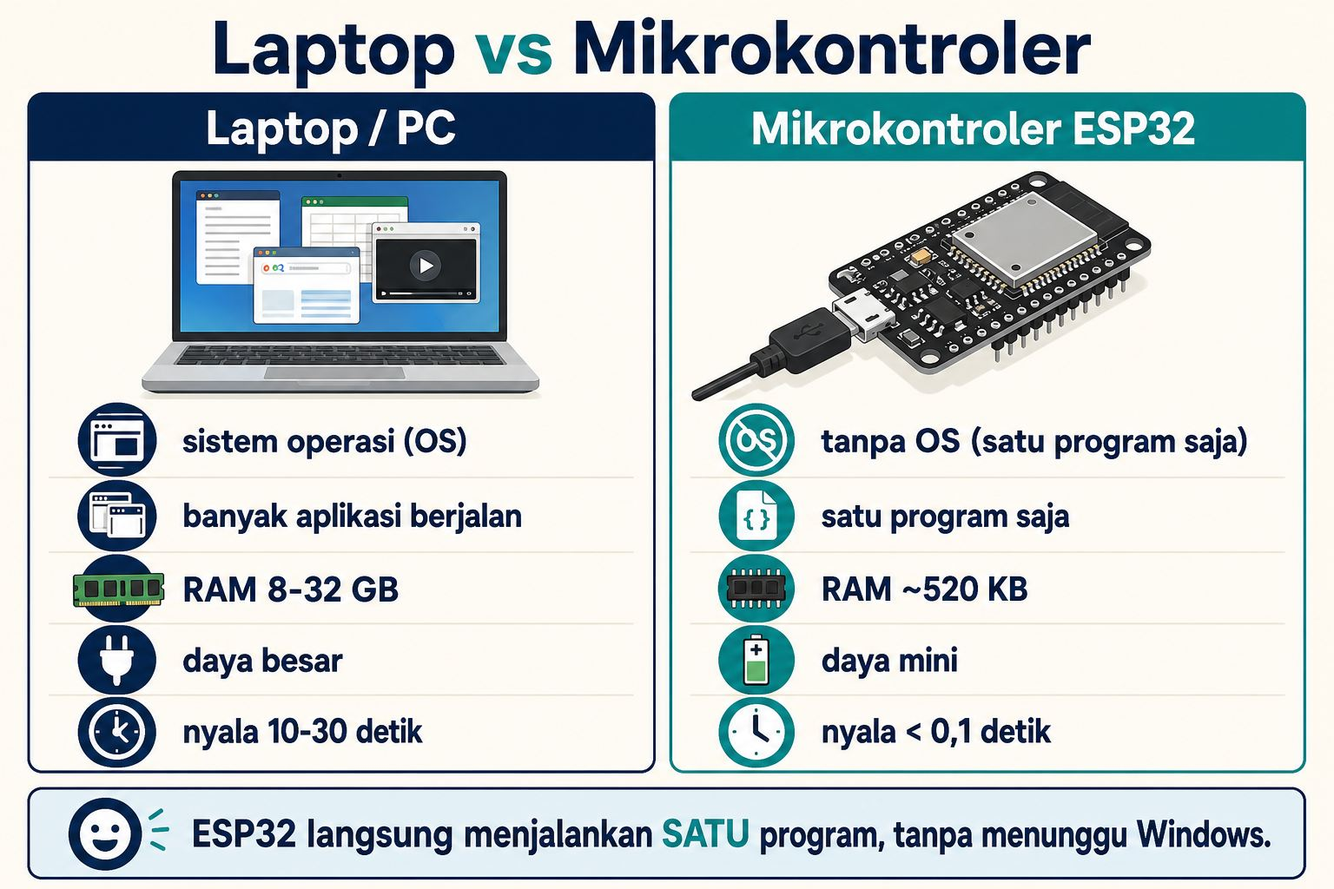
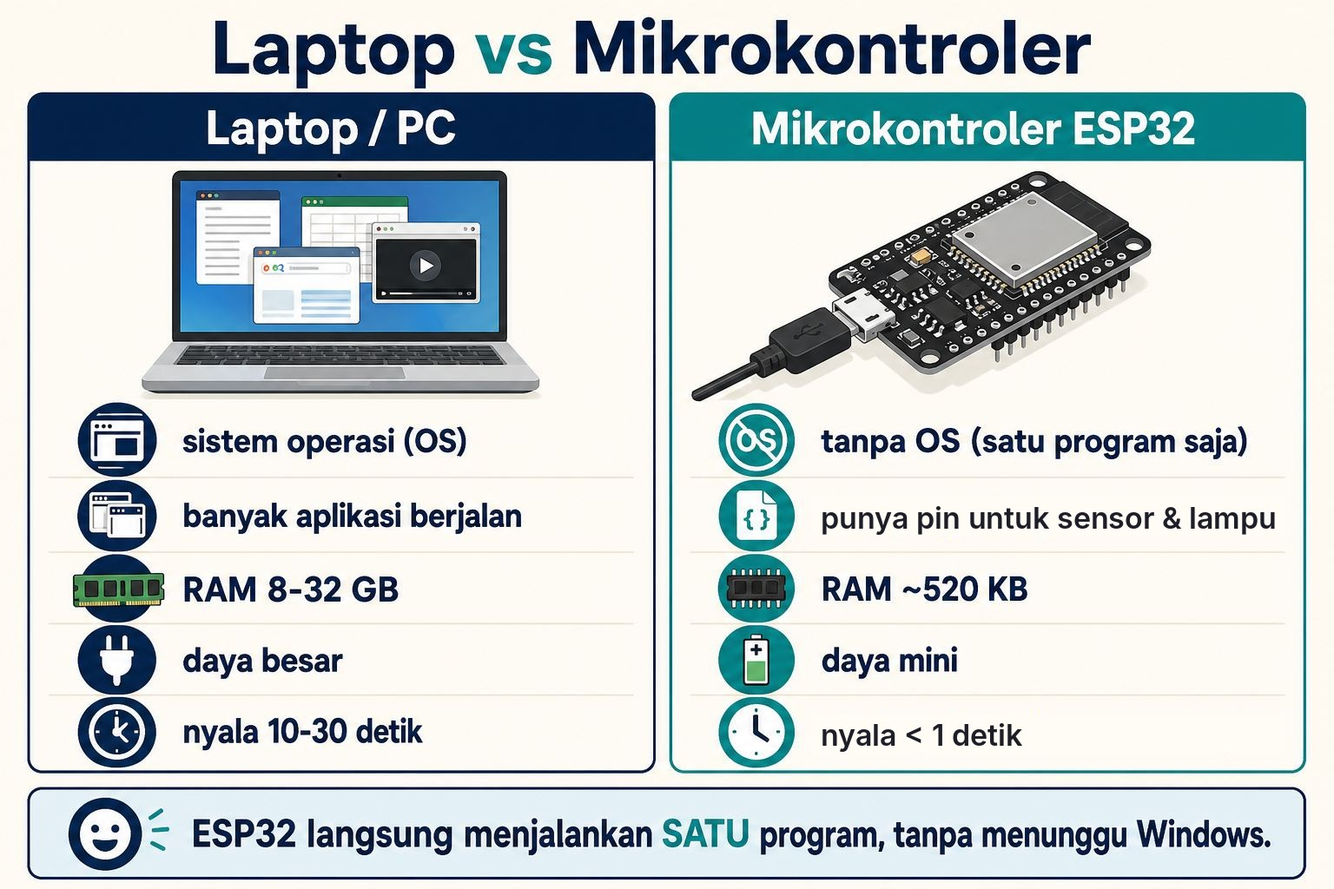
docs(modul-01): revisi v1.2 — audit putaran 2 (awam, teknis, EYD, gambar)
Teks: penjelasan Cara A klik-klik Wokwi diperinci (kotak warna LED,
panel Resistance, tooltip nama pin), contoh error diselaraskan dengan
kode Praktik 3, catatan papan 38 pin, GND.1/GND.2, FreeRTOS, dan
puluhan perbaikan EYD/konsistensi istilah.

Gambar: tangkapan layar baru wokwi-11-klik-komponen.png; wokwi-02 dan
wokwi-05 diambil ulang; diagram polaritas LED, rangkaian Wokwi, pola
kedip, peta jalan, kit benar-vs-salah dan arsitektur dirapikan
(label tidak tumpang-tindih, kaki anoda lebih panjang); ilustrasi
laptop-vs-mikrokontroler dikoreksi; polaritas-kaki-led.jpg lama dihapus.

Kode: kode/03-pola-nama/sketch.ino memakai konstanta jeda yang sama
dengan diagram pola kedip.

Silabus v1.0.2: "foto benar vs salah" → "panduan gambar"; catatan
panjang Modul 1 di §4.1; riwayat revisi.

Claude-Session: https://claude.ai/code/session_01AUkSk1ZM3CR3Lttuu2fo3i

Changed region(s): [[0.5938, 0.5625, 0.9688, 0.625], [0.5938, 0.8125, 0.7812, 0.8438]]

diff --git a/fase-0-fondasi/modul-01-peta-besar-iot/README.md b/fase-0-fondasi/modul-01-peta-besar-iot/README.md
@@ -1,6 +1,6 @@
 # Modul 1 — Peta Besar IoT & Kemenangan Pertama dalam 10 Menit
 
-*Fase 0 · Minggu 1 · Perangkat keras (hardware): **tidak perlu** (semua di browser) · Prasyarat: **tidak ada** · Waktu: 6–8 jam, dicicil dalam seminggu*
+*Fase 0 · Minggu 1 · Perangkat keras (*hardware*): **tidak perlu** (semua di browser) · Prasyarat: **tidak ada** · Waktu: 6–8 jam, dicicil dalam seminggu*
 
 [⬅ Kembali ke Silabus](../../SILABUS.md) · [Pelacak progres](../../PROGRES.md) · [Modul 2 ➡ (segera terbit — baca ringkasannya di Silabus)](../../SILABUS.md#modul-2--listrik-ramah-awam-breadboard--unggah-pertama-ke-esp32-asli)
 
@@ -46,10 +46,10 @@ Dalam 10 menit pertama kamu akan membuat lampu berkedip dari kode yang kamu temp
 | Kebutuhan | Keterangan |
 | :--- | :--- |
 | **Laptop/PC** dengan browser (peramban) modern | Chrome, Edge, atau Firefox versi terbaru. Windows, macOS, atau Linux sama saja. **HP saja tidak cukup** untuk Wokwi (layarnya terlalu sempit dan simulator butuh tenaga komputer), tapi boleh dipakai untuk membaca materi dan memotret. |
-| **Tidak punya laptop?** | Pakai lab komputer kampus, warnet, atau perpustakaan — Wokwi dan GitHub **tidak perlu menginstal apa pun**, jadi 1–2 jam di komputer pinjaman cukup untuk Kemenangan Cepat dan Praktik 1–3. Bagian lain (konsep, belanja, latihan bertanya) bisa dibaca di HP. Jalan darurat: Chrome di HP dengan menu ⋮ → *Desktop site* (*Situs desktop*) untuk Kemenangan Cepat saja; sempit, tapi bisa. |
+| **Tidak punya laptop?** | Pakai lab komputer kampus, warnet, atau perpustakaan — Wokwi dan GitHub **tidak perlu menginstal apa pun**, jadi 1–2 jam di komputer pinjaman cukup untuk Kemenangan Cepat dan Praktik 1–4 (unggah ke GitHub sekalian dari komputer itu, atau kirim tangkapan layarnya ke HP-mu dulu). Bagian lain (konsep, belanja, latihan bertanya) bisa dibaca di HP. Jalan darurat: Chrome di HP dengan menu ⋮ → *Desktop site* (*Situs desktop*) untuk Kemenangan Cepat saja; sempit, tapi bisa. |
 | **Koneksi internet** | Wokwi dan GitHub keduanya berjalan di browser. Kuota HP yang di-*tethering* cukup. |
 | **Alamat email** (surel) | Untuk membuat akun GitHub (gratis) dan, kalau mau menyimpan proyek, akun Wokwi (gratis). |
-| **Uang untuk Kit A Tahap 1** | Rp300–620 ribu, **dipesan di akhir modul ini** supaya sampai sebelum Modul 2. Belum perlu dibeli sekarang — baca dulu panduan belanjanya di Praktik 5. |
+| **Uang untuk Kit A Tahap 1** | Kit A = paket komponen ESP32 dasar menurut Silabus; Tahap 1 = bagian yang dibutuhkan Modul 2–6. Rp300–620 ribu, **dipesan di akhir modul ini** supaya sampai sebelum Modul 2. Belum perlu dibeli sekarang — baca dulu panduan belanjanya di Praktik 5. |
 | **Yang TIDAK perlu** | Menginstal program apa pun. Arduino IDE baru dipasang di Modul 2, Git di Modul 3, Node.js di Modul 4. Satu alat per modul, tepat saat dibutuhkan. |
 
 **Versi yang dipakai di modul ini** (penting — nanti kamu paham kenapa):
@@ -85,7 +85,7 @@ Kamu akan melihat layar seperti ini. Kenali dulu bagian-bagiannya — lima menit
 
 ![Tampilan editor Wokwi dengan enam bagian yang diberi nomor: tab sketch.ino, tab diagram.json, tombol play, panel simulasi, tombol save, tombol tambah komponen](aset/wokwi-02-editor-dijelaskan.png)
 
-Di layarmu tombol **SAVE** masih abu-abu dan ada tombol **SIGN UP** di pojok kanan — normal, kita belum mendaftar. Di panel kanan ada gambar papan (*board*) ESP32 — itu papan **bawaan** Wokwi (versi 38 pin). Kita akan menggantinya dengan papan **30 pin** yang sama persis dengan yang akan kamu beli, plus satu LED dan satu resistor. Caranya: menempel satu "daftar komponen".
+Di layarmu tombol **SAVE** masih abu-abu dan ada tombol **SIGN UP** di pojok kanan — normal, kita belum mendaftar. Di panel kanan ada gambar papan (*board*) ESP32 — itu papan **bawaan** Wokwi, versi 38 pin (pin = kaki logam di tepi papan). Kita akan menggantinya dengan papan **30 pin** yang sama persis dengan yang akan kamu beli, plus satu LED (lampu kecil) dan satu resistor (komponen kecil pembatas arus). Caranya: menempel satu "daftar komponen".
 
 ### Langkah 2 — Tempel daftar komponen (diagram.json)
 
@@ -127,7 +127,7 @@ Begitu ditempel, panel kanan **langsung berubah**: papan 30 pin, resistor, LED m
 > 🖥 **Di mana?** Masih di Wokwi, panel kiri, klik tab **`sketch.ino`** (nomor 1).
 
 1. Klik tab **`sketch.ino`**.
-2. Tekan **Ctrl + A**, lalu **Delete** untuk mengosongkan contoh bawaan "Hello, ESP32!".
+2. Klik di dalam kode, tekan **Ctrl + A**, lalu **Delete** untuk mengosongkan contoh bawaan "Hello, ESP32!".
 3. Salin kode di bawah ini, lalu tempel dengan **Ctrl + V**.
 
 ```cpp
@@ -168,22 +168,22 @@ Lalu… **LED merahnya berkedip.** Nyala setengah detik, padam setengah detik, t
 
 ![Simulasi berjalan: penghitung waktu berjalan, LED merah menyala terang, kotak serial monitor di bawah](aset/wokwi-07-simulasi-berjalan.jpg)
 
-Kalau kamu klik tombol **⏸ jeda** (di sebelah tombol stop), Wokwi membekukan simulasi dan memperlihatkan keadaan setiap pin. Perhatikan pin **D4**: labelnya berganti antara `OUT High` dan `OUT Low` — persis seperti yang kodemu perintahkan.
+Kalau kamu klik tombol **⏸ jeda** (di sebelah tombol stop), Wokwi membekukan simulasi dan memperlihatkan keadaan setiap pin. Perhatikan pin **D4**: kalau kamu menjeda saat LED menyala, labelnya `OUT High`; jeda saat padam, labelnya `OUT Low` — persis seperti yang kodemu perintahkan (bandingkan dua gambar di bawah). Untuk melanjutkan, klik tombol **kuning ▶**.
 
 ![Dua tangkapan layar berdampingan saat simulasi dijeda: kiri LED menyala dengan label pin D4 "OUT High", kanan LED padam dengan label "OUT Low"](aset/wokwi-08-led-nyala-vs-padam.png)
 
 ### Langkah 5 — Abadikan kemenanganmu
 
-Ambil tangkapan layar (*screenshot*) saat LED menyala — ini akan kamu unggah ke GitHub nanti. Trik: klik **⏸ jeda** tepat saat LED menyala (kalau tertangkap padam, klik ▶ lalu ⏸ lagi), baru ambil tangkapan layar.
+Ambil tangkapan layar (*screenshot*) saat LED menyala — ini akan kamu unggah ke GitHub nanti. Trik: klik **⏸ jeda** tepat saat LED menyala (kalau tertangkap padam, klik tombol **kuning ▶** untuk melanjutkan, tunggu LED menyala, lalu ⏸ lagi), baru ambil tangkapan layar.
 
 | Sistem | Cara |
 | :--- | :--- |
 | **Windows 11** | Tekan **Win + Shift + S**, seret kotak di area Wokwi. Hasilnya otomatis tersimpan di folder *Pictures → Screenshots*. |
-| **Windows 10** | Tekan **Win + Shift + S**, seret kotak. Hasilnya **belum** tersimpan: klik notifikasi yang muncul di pojok kanan bawah, lalu klik ikon simpan (disket) di Snipping Tool. |
+| **Windows 10** | Tekan **Win + Shift + S**, seret kotak. Hasilnya **belum** tersimpan: klik notifikasi yang muncul di pojok kanan bawah, lalu klik ikon simpan (disket) di aplikasi Snip & Sketch yang terbuka. |
 | **macOS** | Tekan **Cmd + Shift + 4**, seret kotak. File tersimpan di *Desktop* dengan nama otomatis "Screenshot …". Untuk mengganti nama: klik sekali nama filenya, tekan **Enter**, ketik nama baru. |
 | **Linux (GNOME/Ubuntu)** | Tekan tombol **PrtSc**, pilih mode *area*, seret kotak, lalu klik tombol bulat. File tersimpan di folder *Pictures/Screenshots*. |
 
-Beri nama filenya **`modul-01-blink.png`** dan pindahkan ke folder `belajar-iot` yang kamu buat tadi. (Windows biasanya **menyembunyikan** akhiran `.png` — kalau namanya tampil tanpa `.png`, tidak apa-apa.)
+Beri nama filenya **`modul-01-blink.png`** (Windows/Linux: klik kanan file → **Rename**/*Ubah nama*, atau pilih file lalu tekan **F2**) dan pindahkan ke folder `belajar-iot` yang kamu buat tadi. (Windows biasanya **menyembunyikan** akhiran `.png` — kalau namanya tampil tanpa `.png`, tidak apa-apa.)
 
 > [!IMPORTANT]
 > **🎉 Selamat — kamu baru saja memprogram sebuah mikrokontroler.** Serius. Kode yang kamu tempel itu bukan "pura-pura": kode yang sama persis, tanpa diubah satu huruf pun, akan kamu unggah ke ESP32 sungguhan di Modul 2, dan LED di mejamu akan berkedip dengan irama yang sama. Yang berbeda hanya *tempat* chip-nya berjalan — hari ini di dalam browser, minggu depan di papan seharga Rp50 ribu.
@@ -204,7 +204,7 @@ Coba perhatikan tiga contoh yang hampir pasti pernah kamu temui:
 
 ![Tiga contoh IoT di Indonesia: meteran listrik pintar, pelacak ojek online, dan peringatan dini banjir, masing-masing mengikuti pola sensor → otak kecil → jaringan → server → HP](aset/iot-di-sekitar-kita.png)
 
-(*LoRa* di gambar = radio jarak jauh hemat daya, dibahas di Modul 15; *BPBD* = badan penanggulangan bencana daerah.)
+(*LoRa* di gambar = radio jarak jauh hemat daya, dibahas di Modul 15; BPBD = Badan Penanggulangan Bencana Daerah.)
 
 Lihat polanya? **Selalu sama**, apa pun bendanya:
 
@@ -224,11 +224,11 @@ Inilah sistem yang akan kamu bangun selama 32 minggu, dari sensor sampai ke laya
 
 ![Arsitektur lengkap proyek "Rumah Pintar Mini": perangkat ESP32 (Node 2 tampak sebagai label kecil "via ESP-NOW"), gateway Raspberry Pi, server backend dengan database, dashboard di HP, dan lapisan operasi yang melingkupi semuanya](../../aset/arsitektur-fullstack-iot.png)
 
-Jangan pusing melihat banyaknya kotak dan singkatan — gambar ini sengaja diperlihatkan sekarang supaya kamu **tahu tujuan akhirnya**, bukan untuk dihafal. Setiap kotak akan dapat gilirannya. Sistemnya terdiri dari **lima lapisan**, masing-masing punya analogi sehari-hari (ini pemetaan yang sama dengan [Silabus §2](../../SILABUS.md#2-gambaran-besar-apa-yang-akan-kita-bangun)):
+Jangan pusing melihat banyaknya kotak dan singkatan — gambar ini sengaja diperlihatkan sekarang supaya kamu **tahu tujuan akhirnya**, bukan untuk dihafal. Setiap kotak akan dapat gilirannya. Sistemnya terdiri atas **lima lapisan**, masing-masing punya analogi sehari-hari (ini pemetaan yang sama dengan [Silabus §2](../../SILABUS.md#2-gambaran-besar-apa-yang-akan-kita-bangun)):
 
 | Lapisan | Analogi | Dibangun di | Hubungannya dengan "pola IoT" di Konsep 1 |
 | :--- | :--- | :---: | :--- |
-| **1. Perangkat (ESP32)** | Indra & tangan | Fase 1–2 | Langkah 1 & 2: sensor + otak kecil. Hari ini kamu sudah menyentuhnya. |
+| **1. Perangkat (ESP32)** | Indra & tangan | Fase 0–1 (+ Node 2 di Modul 14) | Langkah 1 & 2: sensor + otak kecil. Hari ini kamu sudah menyentuhnya. |
 | **2. Gateway (Raspberry Pi)** | Kantor pos lokal di rumah | Fase 2 | Bagian dari langkah 3: mengumpulkan laporan semua perangkat di rumah, menahannya kalau internet putus. |
 | **3. Backend & Data** | Kantor pusat & gudang arsip | Fase 3 | Langkah 4: server yang menyimpan riwayat dan menjalankan aturan. |
 | **4. Dashboard** | Layar di mejamu | Fase 4 | Langkah 5: tempat manusia melihat angka dan menekan tombol. |
@@ -243,14 +243,14 @@ Dua hal lagi yang perlu kamu ingat dari gambar itu:
 
 ESP32 adalah **mikrokontroler**: komputer mungil seharga puluhan ribu rupiah yang **tidak punya sistem operasi** seperti Windows — tidak ada aplikasi lain, tidak ada tombol "tutup". Begitu dinyalakan, ia langsung menjalankan **satu-satunya program** yang tersimpan di dalamnya, dan terus menjalankannya sampai listrik dicabut. (Penyederhanaan kecil yang jujur: di dalamnya ada "OS mini" bernama FreeRTOS, tapi kamu baru bertemu dengannya di Modul 8.)
 
-![Perbandingan laptop (sistem operasi, banyak aplikasi, RAM 8–32 GB, nyala 10–30 detik) dengan mikrokontroler ESP32 (tanpa OS, satu program, RAM ~520 KB, nyala dalam sepersekian detik)](aset/laptop-vs-mikrokontroler.jpg)
+![Perbandingan laptop (sistem operasi, banyak aplikasi, RAM 8–32 GB, nyala 10–30 detik) dengan mikrokontroler ESP32 (tanpa OS, punya pin untuk sensor dan lampu, RAM ~520 KB, nyala kurang dari 1 detik)](aset/laptop-vs-mikrokontroler.jpg)
 
-*(Gambar papan di ilustrasi ini hanya simbol; wujud papan yang benar-benar kita beli ada di Praktik 5.)*
+*(Gambar papan di ilustrasi ini hanya simbol; wujud papan yang benar-benar kita beli ada di Praktik 5. "Nyala < 1 detik" di gambar maksudnya: dari dicolok sampai program berjalan, tanpa menunggu apa pun.)*
 
 Kelemahan? Jelas: tidak bisa membuka browser, memorinya cuma sepersepuluh ribu memori laptopmu. Justru itulah kekuatannya untuk IoT:
 
 - **Menyala dalam sepersekian detik** dan tidak pernah tersendat (*lag*) karena tidak ada program lain yang berebut.
-- **Hemat daya luar biasa** — Node 2 "Kebun" nanti hidup berminggu-minggu dari satu baterai.
+- **Hemat daya luar biasa** — Node 2 "Kebun" nanti bertahan berhari-hari sampai beberapa minggu dari satu baterai 18650 (Modul 9 menjelaskan hitungannya dengan jujur).
 - **Murah dan kecil**, bisa ditanam di dalam pot, pompa, atau kotak sakelar.
 - Punya **kaki-kaki (pin)** yang bisa langsung disambung ke sensor dan lampu — laptop tidak punya.
 
@@ -362,7 +362,7 @@ Karena itu pula, setiap modul di kurikulum ini membuka kotak 🚨 dengan tabel *
 
 ### 10. Keselamatan dasar (singkat, karena minggu ini belum ada perangkat keras)
 
-Satu kalimat untuk dibawa ke Modul 2: **semua yang kita pakai di kurikulum ini bertegangan rendah dari USB — aman disentuh tangan, tidak bisa menyetrum.** USB memberi 5 V ke papan; papan menurunkannya menjadi 3,3 V untuk chip dan pin-pinnya (itulah angka `HIGH = 3,3 V` di Konsep 5). Keduanya aman. Listrik PLN 220 V **tidak pernah** kita sentuh; kalau nanti ingin mengendalikan lampu rumah, kita pakai modul relay yang terisolasi dan tetap tidak menyentuh kabel 220 V secara langsung.
+Satu kalimat untuk dibawa ke Modul 2: **semua yang kita pakai di kurikulum ini bertegangan rendah dari USB — aman disentuh tangan, tidak bisa menyetrum.** USB memberi 5 V ke papan; papan menurunkannya menjadi 3,3 V untuk chip dan pin-pinnya (itulah angka `HIGH = 3,3 V` di Konsep 5). Keduanya aman. Listrik PLN 220 V **tidak pernah** kita sentuh: kurikulum ini tidak menyambungkan apa pun ke 220 V; cara kerja relay untuk 220 V hanya dibahas sebagai wawasan dan peringatan.
 
 Aturan emas yang akan diulang di tiap modul perangkat keras: **cabut kabel USB sebelum mengubah kabel rangkaian.** Sekarang kamu hanya perlu mengingatnya.
 
@@ -391,7 +391,7 @@ Angka di dalam `delay(…)` adalah lama tunggu dalam **milidetik** (1 detik = 1.
 | 50 | 1000 | Kilat singkat tiap detik | Indikator baterai (hemat daya!) |
 | 2 | 2 | Terlihat seperti **menyala terus, tetapi setengah terang** | Dasar dari peredupan (*dimming*, Modul 5) |
 
-Baris terakhir itu kejutan kecil: mata manusia tidak bisa mengikuti ratusan kedip per detik, jadi LED terlihat menyala redup. (Di Wokwi hasilnya bisa tampak redup *atau* berkelip cepat, tergantung kecepatan simulasi; di LED asli nanti benar-benar redup.) Trik nyala-padam sangat cepat untuk mengatur terang ini namanya **PWM**, dan kamu akan memakainya untuk meredupkan LED dan membunyikan nada buzzer di Modul 5.
+Baris terakhir itu kejutan kecil: mata manusia tidak bisa mengikuti ratusan kedip per detik, jadi LED terlihat menyala redup. (Di Wokwi hasilnya bisa tampak redup *atau* berkelip cepat, tergantung kecepatan simulasi; di LED asli nanti benar-benar redup.) Trik nyala-padam sangat cepat untuk mengatur terang ini namanya **PWM** (*pulse width modulation*, modulasi lebar pulsa), dan kamu akan memakainya untuk meredupkan LED dan membunyikan nada buzzer di Modul 5.
 
 Begini bentuk dua pola dari tabel kalau digambar di garis waktu — plus bocoran pola "nama" yang akan kamu buat di Praktik 3:
 
@@ -409,12 +409,14 @@ Ada dua cara menambah komponen di Wokwi. **Pilih salah satu.** Kalau ingin menco
 **Cara A — lewat tombol ➕ (klik-klik, cocok untuk eksplorasi).**
 
 1. Klik tombol **➕** biru di panel kanan (nomor 6 di gambar editor). Muncul daftar komponen.
-2. Pilih **LED** (kelompok *Basic*). LED baru muncul di panel; seret ke tempat kosong. Warnanya merah — tidak memengaruhi kode, tapi kalau mau sama dengan gambar dan tantangan, klik LED baru itu lalu ubah **Color** menjadi *green* di panel kecil yang terbuka.
+2. Pilih **LED** (kelompok *Basic*). LED baru muncul di panel; seret ke tempat kosong. Warnanya merah — tidak memengaruhi kode, tapi kalau mau sama dengan gambar dan tantangan, klik LED baru itu lalu klik **kotak warna hijau** di baris yang muncul di atasnya (lihat gambar di bawah).
 
 ![Dialog "tambah komponen" Wokwi dengan kotak pencarian dan daftar kelompok Basic (LED, Pushbutton, Resistor) dan Display](aset/wokwi-05-tambah-komponen.jpg)
 
-3. Klik ➕ lagi, pilih **Resistor**. Klik resistor yang baru muncul — di sampingnya terbuka panel kecil dengan kolom **Resistance**; ganti isinya menjadi `220`. (Mengeklik komponen juga memunculkan tombol *Rotate* untuk memutar dan *Delete* untuk menghapus.)
-4. **Menyambung kabel:** arahkan kursor ke ujung sebuah pin *tanpa* mengeklik — Wokwi memunculkan **nama pinnya** (`D18`, `GND`, `A`, `C`, `1`, `2`). Klik pin pertama, lalu klik pin tujuan. Sambungkan: pin **D18** ESP32 → kaki **1** resistor; kaki **2** resistor → kaki **A** LED; kaki **C** LED baru → kaki **C** LED pertama (keduanya "pulang" ke GND lewat kabel hitam yang sudah ada — seperti dua rumah berbagi satu saluran pembuangan).
+3. Klik ➕ lagi, pilih **Resistor**. Klik resistor yang baru muncul — di atasnya terbuka panel kecil dengan kolom **Resistance**; ganti isinya menjadi `220`. (Mengeklik komponen juga memunculkan ikon putar, hapus, dan `?` untuk dokumentasi.)
+4. **Menyambung kabel:** arahkan kursor ke ujung sebuah pin *tanpa* mengeklik — Wokwi memunculkan **nama pinnya** dalam kotak kecil (`esp:D18`, `esp:GND.1`, `led2:A`, `led2:C`, `r2:1`, `r2:2`). Klik pin pertama, lalu klik pin tujuan. Sambungkan: pin **D18** ESP32 → kaki **1** resistor; kaki **2** resistor → kaki **A** LED; kaki **C** LED baru → kaki **C** LED pertama (keduanya "pulang" ke GND lewat kabel hitam yang sudah ada — seperti dua rumah berbagi satu saluran pembuangan).
+
+![Dua tangkapan layar Wokwi: kiri, LED yang diklik menampilkan baris kotak warna dan ikon putar/hapus; kanan, resistor yang diklik menampilkan kolom Resistance 220, dan kursor di ujung pin memunculkan tooltip esp:D18](aset/wokwi-11-klik-komponen.png)
 
 **Cara B — lewat `diagram.json` (tempel teks, hasilnya pasti rapi).** Buka tab `diagram.json`, kosongkan (**Ctrl + A**, **Delete**), lalu tempel ini:
 
@@ -508,16 +510,18 @@ Supaya tidak menulis `digitalWrite … delay …` puluhan kali, kita buat satu *
 
 const int PIN_LED = 4;
 
-const int PENDEK = 200;   // lama kedip pendek, dalam milidetik
-const int PANJANG = 600;  // lama kedip panjang
-const int JEDA = 1000;    // jeda sebelum pola diulang
+const int PENDEK = 200;        // lama kedip pendek (titik), dalam milidetik
+const int PANJANG = 600;       // lama kedip panjang (garis)
+const int JEDA_KEDIP = 200;    // jeda singkat antara dua kedip
+const int JEDA_HURUF = 400;    // jeda antara dua huruf
+const int JEDA_ULANG = 1000;   // jeda panjang sebelum pola diulang
 
 // Fungsi kecil = "resep" yang bisa dipanggil berkali-kali
 void kedip(int lamaNyala) {
   digitalWrite(PIN_LED, HIGH);
   delay(lamaNyala);           // nyala selama lamaNyala milidetik
   digitalWrite(PIN_LED, LOW);
-  delay(200);                 // jeda singkat antara dua kedip
+  delay(JEDA_KEDIP);          // padam sebentar sebelum kedip berikutnya
 }
 
 void setup() {
@@ -526,38 +530,47 @@ void setup() {
 
 void loop() {
   // Contoh pola untuk nama "ANI" (A = · —, N = — ·, I = · ·)
+  // Satu huruf = satu baris kedip(...) + satu baris delay(JEDA_HURUF)
   // Ganti dengan huruf-huruf namamu (tabel Morse ada di materi modul)
   kedip(PENDEK); kedip(PANJANG);   // A
-  delay(400);                      // jeda antarhuruf
+  delay(JEDA_HURUF);
   kedip(PANJANG); kedip(PENDEK);   // N
-  delay(400);
+  delay(JEDA_HURUF);
   kedip(PENDEK); kedip(PENDEK);    // I
-  delay(JEDA);                     // jeda panjang, lalu ulang dari awal
+  delay(JEDA_ULANG);               // jeda panjang, lalu ulang dari awal
 }
 ```
 
-Tugasmu: ganti tiga baris huruf di `loop()` dengan huruf-huruf **namamu** (3–5 huruf cukup; nama panggilan boleh). Jalankan, lalu **ambil tangkapan layar** dengan nama `modul-01-pola-nama.png`.
+Tugasmu: ganti huruf-huruf di `loop()` dengan huruf-huruf **namamu** (3–5 huruf cukup; nama panggilan boleh). Aturannya: **satu huruf = satu baris** berisi 1–4 panggilan `kedip(…)` (sesuai jumlah titik/garis di tabel), lalu satu baris `delay(JEDA_HURUF);`. Contoh huruf B (— · · ·):
 
-**Simpan juga kodenya sebagai file** (langkah ini sering membuat pemula tersandung, jadi ikuti pelan-pelan):
+```cpp
+  kedip(PANJANG); kedip(PENDEK); kedip(PENDEK); kedip(PENDEK);   // B
+  delay(JEDA_HURUF);
+```
 
-1. Klik di dalam editor Wokwi, tekan **Ctrl + A** lalu **Ctrl + C**.
-2. Buka aplikasi catatan polos: **Notepad** (Windows), **TextEdit** (macOS — pilih menu *Format → Make Plain Text* dulu), atau **Text Editor/gedit** (Linux). Tempel dengan **Ctrl + V**.
-3. Simpan: *File → Save As*.
-   - **Windows:** ubah *Save as type* menjadi **All files (\*.\*)**. Kalau dibiarkan "Text Documents", Notepad diam-diam menambahkan `.txt` sehingga namanya jadi `modul-01-pola-nama.ino.txt`.
-   - Ketik nama `modul-01-pola-nama.ino`, pilih folder `belajar-iot`, klik **Save**.
-4. Cek hasilnya di folder. Windows menyembunyikan akhiran file; untuk melihatnya, buka File Explorer → menu **View** → **Show** → centang **File name extensions**.
+Nama 4–5 huruf? Salin sepasang baris itu dan tempel sebelum `delay(JEDA_ULANG);`. Ingin iramanya beda? Ubah angka `PENDEK`, `PANJANG`, atau `JEDA_…` di bagian atas — satu angka, berlaku untuk semua huruf. Jalankan, lalu **ambil tangkapan layar** dengan nama `modul-01-pola-nama.png`.
+
+**Simpan juga kodenya.** Ada dua jalur; pilih yang kamu suka:
+
+- **Jalur A (paling mudah, tanpa file di laptop):** salin kode dari Wokwi (klik di dalam editor, **Ctrl + A**, **Ctrl + C**), lalu nanti di Praktik 4 tempel langsung ke GitHub lewat **Add file → Create new file** dengan nama `modul-01-pola-nama.ino`. Caranya persis seperti langkah di bagian ➕ di bawah.
+- **Jalur B (menyimpan file di laptop)** — langkah ini sering membuat pemula tersandung, jadi ikuti pelan-pelan:
+  1. Klik di dalam editor Wokwi, tekan **Ctrl + A**, lalu **Ctrl + C**.
+  2. Buka aplikasi catatan polos: **Notepad** (Windows), **TextEdit** (macOS — pilih menu *Format → Make Plain Text* dulu), atau **Text Editor/gedit** (Linux). Tempel dengan **Ctrl + V**.
+  3. *File → Save As*, lalu ketik nama `modul-01-pola-nama.ino` dan pilih folder `belajar-iot`.
+  4. Sebelum klik **Save**, cek jebakan akhiran file: **Windows** — ubah *Save as type* menjadi **All files (\*.\*)**; kalau dibiarkan "Text Documents", Notepad diam-diam menambahkan `.txt` sehingga namanya jadi `modul-01-pola-nama.ino.txt`. **macOS** — kalau TextEdit bertanya *Use .txt / Use .ino*, pilih **Use .ino**.
+  5. Cek hasilnya di folder. Windows menyembunyikan akhiran file; untuk melihatnya: Windows 11 → File Explorer → menu **View** → **Show** → centang **File name extensions**; Windows 10 → tab **View** → centang **File name extensions**.
 
 > [!TIP]
 > Kalau namamu panjang dan polanya jadi membosankan, buat versi "tanda tangan" saja: dua huruf inisial. Yang dinilai bukan panjangnya, melainkan **apakah kamu mengerti angka mana mengatur apa**.
 
 ### Praktik 4 — Simpan ke GitHub (lewat browser, tanpa menginstal apa pun)
 
-> 🖥 **Alat:** browser → [github.com](https://github.com). Siapkan file di folder `belajar-iot`: `modul-01-blink.png`, `modul-01-pola-nama.png`, `modul-01-pola-nama.ino`. (Belum baca Konsep 8 tentang GitHub? Baca dulu, 3 menit.)
+> 🖥 **Alat:** browser → [github.com](https://github.com). Siapkan file di folder `belajar-iot`: `modul-01-blink.png`, `modul-01-pola-nama.png`, dan (kalau memakai Jalur B di Praktik 3) `modul-01-pola-nama.ino`. (Belum baca Konsep 8 tentang GitHub? Baca dulu, 3 menit.)
 
 #### 4a. Buat akun GitHub (lewati kalau sudah punya)
 
 1. Buka `https://github.com/signup`.
-2. Isi **email**, **kata sandi**, dan **username** (nama pengguna). Username ini akan **terlihat oleh semua orang** dan menjadi bagian alamat repositorimu. Bisa diganti nanti, tapi semua tautan lamamu akan putus — jadi pilih yang rapi sejak awal, misalnya nama asli (`budisantoso`) atau nama + kata (`budi-iot`).
+2. Isi **email**, **kata sandi**, dan **username** (nama pengguna). Username ini akan **terlihat oleh semua orang** dan menjadi bagian alamat repositorimu. Bisa diganti nanti, tapi tautan profil lamamu akan putus — jadi pilih yang rapi sejak awal, misalnya nama asli (`budisantoso`) atau nama + kata (`budi-iot`).
 3. Selesaikan teka-teki verifikasi, lalu masukkan kode yang dikirim ke emailmu.
 4. GitHub mungkin bertanya beberapa hal (tujuan, minat) — boleh dilewati (*skip*). Kalau ditawari paket, pilih **Free**.
 
@@ -581,12 +594,13 @@ Tugasmu: ganti tiga baris huruf di `loop()` dengan huruf-huruf **namamu** (3–5
 
 ![Menu Add file di halaman sebuah repositori GitHub: tombol + (nomor 1) lalu pilihan Upload files (nomor 2). Repositori di gambar ini punya banyak file; repositorimu baru berisi README.md](aset/github-03-menu-add-file.jpg)
 
-2. **Seret** ketiga file dari folder `belajar-iot` ke kotak bertuliskan *"Drag files here to add them to your repository"*, atau klik **choose your files** dan pilih filenya.
+2. **Seret** file-file dari folder `belajar-iot` ke kotak bertuliskan *"Drag files here to add them to your repository"*, atau klik **choose your files** dan pilih filenya (tahan **Ctrl** sambil mengeklik untuk memilih beberapa file sekaligus; atau unggah satu per satu).
 
 ![Halaman Upload files GitHub: area seret-lepas file dan formulir Commit changes di bawahnya](aset/github-04-upload-files.jpg)
 
 3. Gulir ke bawah ke bagian **Commit changes**. Kotak pertama adalah **pesan commit** — catatan singkat tentang perubahan ini. Ganti isinya menjadi `Modul 1: blink pertama dan pola nama`. (*Commit* = "menyimpan satu foto kemajuan" — istilah ini akan kamu pakai ratusan kali.)
-4. Klik tombol hijau **Commit changes** (di bawah formulir). Tunggu beberapa detik; kamu kembali ke halaman repositori dan ketiga file sudah ada di daftar.
+4. Klik tombol hijau **Commit changes** (di bawah formulir). Tunggu beberapa detik; kamu kembali ke halaman repositori dan file-filemu sudah ada di daftar.
+5. Memakai **Jalur A** untuk kode? Sekarang: **➕ / Add file → Create new file**, ketik nama `modul-01-pola-nama.ino`, tempel kodenya di kotak besar, lalu **Commit changes…** → **Commit changes**.
 
 #### 4d. Tulis catatan di README (opsional, 3 menit)
 
@@ -625,7 +639,7 @@ Pengiriman dari toko komponen biasanya 2–7 hari. Kalau dipesan **minggu ini**,
 
 Ada belasan papan yang namanya mengandung "ESP32". Kurikulum ini memakai **ESP32 DevKit V1, 30 pin** (sering ditulis "DOIT ESP32 DevKit V1"). Begini cara membedakannya dari yang mirip (gambar skematis, bukan foto produk — cocokkan ciri-cirinya dengan foto di toko):
 
-![Panduan belanja: ciri-ciri ESP32 DevKit V1 30 pin yang benar, versi 38 pin yang masih boleh, dan tiga papan yang sering tertukar (ESP32-S3/C3, ESP32-CAM, ESP32-WROOM-32U)](aset/kit-benar-vs-salah.png)
+![Panduan belanja: ciri-ciri ESP32 DevKit V1 30 pin yang benar, versi 38 pin yang masih boleh, dan tiga papan yang sering tertukar (ESP32-S3/C3/C6, ESP32-CAM, ESP32-WROOM-32U)](aset/kit-benar-vs-salah.png)
 
 Inilah wujud aslinya, lengkap dengan ciri yang harus kamu cari di foto produk:
 
@@ -648,7 +662,7 @@ Daftar lengkap beserta harga ada di [Silabus §5.2](../../SILABUS.md#52-kit-a--e
 | Breadboard 830 titik | 2 | `breadboard 830` | Dua buah supaya papan 30 pin lega. |
 | Kabel jumper M-M, M-F, F-F | 1 set | `kabel jumper 40 pin set` | M = jantan (colokan), F = betina (lubang). |
 | LED 5 mm aneka warna + paket resistor | 1 set | `led 5mm set`, `resistor pack 1/4 watt` | Pastikan ada 220 Ω, 1 kΩ, 4,7 kΩ, 10 kΩ. |
-| Kapasitor 100 µF dan 100 nF | @ 2 bh | `kapasitor elektrolit 100uF`, `kapasitor keramik 104` | "104" = 100 nF. |
+| Kapasitor 100 µF dan 100 nF | 2 + 2 (masing-masing 2 buah) | `kapasitor elektrolit 100uF`, `kapasitor keramik 104` | "104" = 100 nF. |
 | Multimeter digital | 1 | `multimeter digital` | Dipakai sejak Modul 2 untuk mengukur tegangan dan resistor; Rp50–100 ribu, investasi seumur hidup. |
 
 <details>
@@ -657,7 +671,7 @@ Daftar lengkap beserta harga ada di [Silabus §5.2](../../SILABUS.md#52-kit-a--e
 | Komponen | Jml | Kata kunci pencarian | Catatan |
 | :--- | :---: | :--- | :--- |
 | Adaptor 5 V ≥ 2 A + modul catu daya breadboard MB102 | 1 + 1 | `adaptor 5v 2a`, `MB102 breadboard power supply` | Modul 5. |
-| Push button (tombol tekan), potensiometer 10 kΩ, buzzer pasif | @ 2 bh | `push button 12mm`, `potensiometer 10k`, `buzzer pasif` | Modul 5. |
+| Push button (tombol tekan), potensiometer 10 kΩ, buzzer pasif | masing-masing 2 buah | `push button 12mm`, `potensiometer 10k`, `buzzer pasif` | Modul 5. |
 | Relay 1–2 kanal 5 V *low-level trigger* | 1 | `relay 2 channel 5v low level trigger` | Pilih yang ber-*optocoupler*. Modul 5. |
 | Kipas DC 5 V 40 mm, pompa mini 3–5 V + selang | 1 + 1 | `kipas dc 5v 4cm`, `pompa mini 5v dc` | Beban untuk relay/MOSFET. Modul 5. |
 | MOSFET IRLZ44N (atau modul D4184) + dioda 1N4007 | 1 + 1 | `IRLZ44N`, `dioda 1N4007` | **Bukan** modul IRF520. Modul 5. |
@@ -670,7 +684,7 @@ Daftar lengkap beserta harga ada di [Silabus §5.2](../../SILABUS.md#52-kit-a--e
 
 </details>
 
-Perkiraan total Tahap 1: **Rp300–620 ribu** (Oktober 2026, bisa berubah). Paket "ESP32 starter kit" sering lebih murah — boleh, asalkan isinya memuat tabel **Wajib** di atas dan papannya benar.
+Perkiraan total Tahap 1: **Rp300–620 ribu** (Oktober 2026, bisa berubah). Paket "ESP32 starter kit" sering lebih murah — boleh, asalkan isinya memuat tabel **Wajib** di atas dan papannya benar. Syarat lulus modul ini: **minimal tabel Wajib sudah dipesan sekarang**; sisa Tahap 1 boleh menyusul, paling lambat sebelum Modul 5.
 
 > [!WARNING]
 > Sebelum klik "beli", cek **tiga hal**: (1) foto papan menunjukkan **30 pin** dan tulisan **ESP-WROOM-32**, (2) kabelnya **kabel data**, (3) paket resistornya mengandung **220 Ω**. Tiga kesalahan ini menyumbang hampir semua "Modul 2 saya macet".
@@ -687,7 +701,7 @@ Pembelajar mandiri paling sering berhenti bukan karena materinya sulit, melainka
 
 Tidak ada yang bisa menjawab ini kecuali dengan dua puluh pertanyaan balik. Versi yang **bisa dibantu dalam satu balasan**:
 
-> ✅ *"Halo, saya mengerjakan Modul 1 kurikulum Fullstack IoT di **Wokwi** (browser Chrome, Windows 11). Tujuan: LED di pin D4 berkedip. **Yang terjadi:** setelah saya mengeklik ▶, muncul 'Build failed!' dengan pesan `sketch.ino:14:13: error: expected ';' before 'digitalWrite'`. **Kode lengkap** ada di https://github.com/budi/belajar-iot/blob/main/modul-01-blink.ino. **Yang sudah dicoba:** menyalin ulang kode dari materi (tetap error), mengganti browser ke Edge. Tangkapan layar error terlampir."*
+> ✅ *"Halo, saya mengerjakan Modul 1 kurikulum Fullstack IoT di **Wokwi** (browser Chrome, Windows 11). Tujuan: LED di pin D4 berkedip. **Yang terjadi:** setelah saya mengeklik ▶, muncul 'Build failed!' dengan pesan `sketch.ino:15:19: error: expected ';' before 'digitalWrite'`. **Kode lengkap** ada di https://github.com/budi/belajar-iot/blob/main/modul-01-pola-nama.ino. **Yang sudah dicoba:** menyalin ulang kode dari materi (tetap error), mengganti browser ke Edge. Tangkapan layar error terlampir."*
 
 Polanya selalu sama. Salin templat ini ke catatanmu dan isi setiap kali bertanya:
 
@@ -744,7 +758,7 @@ Berikut masalah paling umum di tahap ini:
 Ini **bukan** tanda kamu tidak berbakat — ini kompiler sedang menunjukkan tepat di mana ia bingung. Cara membacanya:
 
 - `sketch.ino:14:13` → file `sketch.ino`, **baris 14**, kolom 13. Lihat nomor baris di kiri editor. Di situlah — tepat di ujung baris 14, `delay(500)` — titik koma yang hilang.
-- `error: expected ';' before 'digitalWrite'` → "saya mengharapkan titik koma **sebelum** kata digitalWrite". Kata `digitalWrite` adalah perintah **berikutnya** (baris 15); kompiler baru sadar ada yang kurang saat bertemu kata itu. Jadi yang perlu diperbaiki tetap **baris 14**: tambahkan `;` di ujungnya.
+- `error: expected ';' before 'digitalWrite'` → "saya mengharapkan titik koma **sebelum** kata digitalWrite". Kata `digitalWrite` adalah perintah **berikutnya** (baris 15); kompiler baru sadar ada yang kurang saat bertemu kata itu. Jadi, yang perlu diperbaiki tetap **baris 14**: tambahkan `;` di ujungnya.
 - Tanda `^` dan `;` di bawah kode menunjukkan posisi persis yang disarankan.
 
 Error lain yang sering muncul:
@@ -945,7 +959,7 @@ Contoh isian singkat supaya ada bayangan: *"Tempat: kamar kos 3×3 m dan dua pot
 | **ESP32** | Mikrokontroler murah buatan Espressif dengan WiFi dan Bluetooth; chip utama kurikulum ini. |
 | **Papan** (*board*, DevKit) | Papan sirkuit yang memuat chip ESP32 beserta colokan USB, tombol, dan pin — supaya chip bisa langsung dipakai. |
 | **Node** | Satu perangkat (ESP32 + sensor/aktuatornya) dalam sistem IoT. Proyek kita punya Node 1 "Rumah" dan Node 2 "Kebun". |
-| **Pin / GPIO** | "Kaki" logam di papan yang bisa mengeluarkan atau membaca sinyal listrik. `D4` = GPIO nomor 4. |
+| **Pin / GPIO** | "Kaki" logam di papan yang bisa mengeluarkan atau membaca sinyal listrik. GPIO = *general purpose input/output*, pin serbaguna; `D4` = GPIO nomor 4. |
 | **LED** | Lampu kecil hemat daya yang hanya mau dialiri arus satu arah (kaki panjang = +). |
 | **Resistor** | Komponen "penyempit pipa" yang membatasi arus; nilainya dalam ohm (Ω). |
 | **GND** (*ground*) | Titik nol listrik; tempat arus "pulang". |
@@ -991,14 +1005,14 @@ Jawab dulu di kepala atau di catatan, baru buka kuncinya. Lulus = minimal 4 bena
 
 ## ✅ Checklist kelulusan Modul 1
 
-Centang jujur. Kotak ⭐ adalah **syarat lulus resmi** dari Silabus; sisanya sangat dianjurkan. Kalau semua tercentang, tandai Modul 1 di salinan [PROGRES.md](../../PROGRES.md) milikmu (salin filenya ke repositori `belajar-iot` atau ke catatanmu, lalu ganti `[ ]` menjadi `[x]`) dan lanjut ke Modul 2 — bahkan kalau kit belum sampai.
+Centang jujur. Kotak ⭐ adalah **syarat lulus resmi** dari Silabus; sisanya sangat dianjurkan. Kalau semua tercentang, tandai Modul 1 di salinan [PROGRES.md](../../PROGRES.md) milikmu (buka `PROGRES.md` → ikon salin **Copy raw file** → di repositorimu **Add file → Create new file** bernama `PROGRES.md` → tempel → Commit; lalu ganti `[ ]` menjadi `[x]` lewat ikon pensil) dan lanjut ke Modul 2 — bahkan kalau kit belum sampai.
 
 - [ ] LED di Wokwi berkedip dari kode Blink yang saya tempel sendiri.
 - [ ] Saya sudah mengubah kecepatan kedip dan melihat efeknya (Praktik 1).
 - [ ] Dua LED berkedip bergantian (Praktik 2).
 - [ ] ⭐ **LED berkedip dengan pola yang saya rancang sendiri** (nama/inisial dalam Morse), dan saya bisa menunjuk baris mana yang mengatur panjang-pendeknya (Praktik 3).
 - [ ] ⭐ Repositori `belajar-iot` ada di GitHub saya, berisi **tangkapan layar** dan kode pola nama; alamatnya: `https://github.com/________/belajar-iot` (Praktik 4).
-- [ ] ⭐ **Kit A Tahap 1 sudah dipesan**, papannya DevKit V1 30 pin, kabelnya kabel data (Praktik 5).
+- [ ] ⭐ **Kit A Tahap 1 sudah dipesan** (minimal tabel Wajib), papannya DevKit V1 30 pin, kabelnya kabel data (Praktik 5).
 - [ ] Saya punya templat pertanyaan "versi ✅" di catatan saya dan tahu ke mana bertanya (Praktik 6).
 - [ ] `visi-proyek.md` terisi dan sudah di-*commit* di repositori (➕).
 - [ ] Kuis: minimal 4 dari 5 benar.
@@ -1017,7 +1031,7 @@ Semua tangkapan layar diambil penulis pada Oktober 2026 dari layanan yang bersan
 | `../../aset/arsitektur-fullstack-iot.png` | Diagram orisinal kurikulum (gambar lintas modul) | CC BY 4.0 |
 | `laptop-vs-mikrokontroler.jpg`, `alur-kode-masuk-chip.jpg`, `kabel-data-vs-cas.jpg` | Ilustrasi orisinal kurikulum Fullstack IoT Developer (dari versi kurikulum sebelumnya, diperiksa ulang) | CC BY 4.0 |
 | `foto-esp32-devkit-v1.jpg`, `foto-esp32-devkit-v1-anotasi.jpg` | [Ubahnverleih, Wikimedia Commons — *ESP32 Espressif ESP-WROOM-32 Dev Board*](https://commons.wikimedia.org/wiki/File:ESP32_Espressif_ESP-WROOM-32_Dev_Board.jpg); anotasi oleh penulis | [CC0 1.0 (domain publik)](https://creativecommons.org/publicdomain/zero/1.0/deed.id) |
-| `wokwi-02-editor-dijelaskan.png`, `wokwi-03-diagram-json.jpg` … `wokwi-10-dua-led.jpg` | Tangkapan layar [Wokwi](https://wokwi.com) (© Wokwi / CodeMagic LTD), sebagian diberi anotasi oleh penulis | Dipakai untuk tujuan pendidikan/tutorial; bukan bagian dari lisensi CC kurikulum. |
+| `wokwi-02-editor-dijelaskan.png`, `wokwi-03-diagram-json.jpg` … `wokwi-11-klik-komponen.png` | Tangkapan layar [Wokwi](https://wokwi.com) (© Wokwi / CodeMagic LTD), sebagian diberi anotasi oleh penulis | Dipakai untuk tujuan pendidikan/tutorial; bukan bagian dari lisensi CC kurikulum. |
 | `github-01-repo-baru.jpg` … `github-04-upload-files.jpg` | Tangkapan layar [GitHub](https://github.com) (© GitHub, Inc.), sebagian diberi anotasi oleh penulis | Dipakai untuk tujuan pendidikan/tutorial; bukan bagian dari lisensi CC kurikulum. |
 
 Rujukan yang dipakai saat menulis: dokumentasi Wokwi ([docs.wokwi.com](https://docs.wokwi.com/)), kode sumber komponen Wokwi ([github.com/wokwi/wokwi-elements](https://github.com/wokwi/wokwi-elements) — nama dan posisi pin papan), dokumentasi arduino-esp32 ([docs.espressif.com/projects/arduino-esp32](https://docs.espressif.com/projects/arduino-esp32/en/latest/); khususnya catatan migrasi 2.x → 3.x), dan dokumentasi GitHub ([docs.github.com](https://docs.github.com/)) untuk alur unggah file lewat browser.

diff --git a/fase-0-fondasi/modul-01-peta-besar-iot/aset/SUMBER.md b/fase-0-fondasi/modul-01-peta-besar-iot/aset/SUMBER.md
@@ -11,21 +11,21 @@ Rekap semua gambar di folder ini. Diagram orisinal kurikulum berlisensi **CC BY 
 | `polaritas-kaki-led.png` / `.svg` | Diagram orisinal | Kurikulum Fullstack IoT Developer | CC BY 4.0 |
 | `pola-kedip-waktu.png` / `.svg` | Diagram orisinal | Kurikulum Fullstack IoT Developer | CC BY 4.0 |
 | `kit-benar-vs-salah.png` / `.svg` | Diagram orisinal (skematis, bukan foto produk) | Kurikulum Fullstack IoT Developer | CC BY 4.0 |
-| `laptop-vs-mikrokontroler.jpg` | Ilustrasi orisinal | Kurikulum Fullstack IoT Developer (versi kurikulum sebelumnya, diperiksa ulang) | CC BY 4.0 |
+| `laptop-vs-mikrokontroler.jpg` | Ilustrasi orisinal (dua baris teks diperbaiki penulis pada Okt 2026) | Kurikulum Fullstack IoT Developer (versi kurikulum sebelumnya, diperiksa ulang) | CC BY 4.0 |
 | `alur-kode-masuk-chip.jpg` | Ilustrasi orisinal | Kurikulum Fullstack IoT Developer (versi kurikulum sebelumnya, diperiksa ulang) | CC BY 4.0 |
 | `kabel-data-vs-cas.jpg` | Ilustrasi orisinal | Kurikulum Fullstack IoT Developer (versi kurikulum sebelumnya, diperiksa ulang) | CC BY 4.0 |
-| `polaritas-kaki-led.jpg` | Ilustrasi orisinal (versi lama; tidak dipakai lagi di artikel, digantikan `polaritas-kaki-led.png`) | Kurikulum Fullstack IoT Developer (versi kurikulum sebelumnya) | CC BY 4.0 |
 | `foto-esp32-devkit-v1.jpg` | Foto | [Ubahnverleih, Wikimedia Commons — File:ESP32_Espressif_ESP-WROOM-32_Dev_Board.jpg](https://commons.wikimedia.org/wiki/File:ESP32_Espressif_ESP-WROOM-32_Dev_Board.jpg) (diakses Oktober 2026) | [CC0 1.0](https://creativecommons.org/publicdomain/zero/1.0/deed.id) |
 | `foto-esp32-devkit-v1-anotasi.jpg` | Foto + anotasi penulis | Sama dengan di atas | CC0 1.0 (foto); anotasi CC BY 4.0 |
 | `wokwi-02-editor-dijelaskan.png` | Tangkapan layar + anotasi penulis | [wokwi.com/projects/new/esp32](https://wokwi.com/projects/new/esp32), Oktober 2026 | © Wokwi (CodeMagic LTD); dipakai untuk tujuan pendidikan |
 | `wokwi-03-diagram-json.jpg` | Tangkapan layar | Sama dengan di atas | © Wokwi (CodeMagic LTD); dipakai untuk tujuan pendidikan |
 | `wokwi-04-kode-blink.jpg` | Tangkapan layar | Sama dengan di atas | © Wokwi (CodeMagic LTD); dipakai untuk tujuan pendidikan |
-| `wokwi-05-tambah-komponen.jpg` | Tangkapan layar | Sama dengan di atas | © Wokwi (CodeMagic LTD); dipakai untuk tujuan pendidikan |
+| `wokwi-05-tambah-komponen.jpg` | Tangkapan layar (dipotong ke dialognya saja) | Sama dengan di atas | © Wokwi (CodeMagic LTD); dipakai untuk tujuan pendidikan |
 | `wokwi-06-compiling.jpg` | Tangkapan layar | Sama dengan di atas | © Wokwi (CodeMagic LTD); dipakai untuk tujuan pendidikan |
 | `wokwi-07-simulasi-berjalan.jpg` | Tangkapan layar | Sama dengan di atas | © Wokwi (CodeMagic LTD); dipakai untuk tujuan pendidikan |
 | `wokwi-08-led-nyala-vs-padam.png` | Tangkapan layar (2 potongan) + anotasi penulis | Sama dengan di atas | © Wokwi (CodeMagic LTD); dipakai untuk tujuan pendidikan |
 | `wokwi-09-build-failed.jpg` | Tangkapan layar | Sama dengan di atas | © Wokwi (CodeMagic LTD); dipakai untuk tujuan pendidikan |
 | `wokwi-10-dua-led.jpg` | Tangkapan layar | Sama dengan di atas | © Wokwi (CodeMagic LTD); dipakai untuk tujuan pendidikan |
+| `wokwi-11-klik-komponen.png` | Tangkapan layar (2 potongan) + anotasi penulis | Sama dengan di atas | © Wokwi (CodeMagic LTD); dipakai untuk tujuan pendidikan |
 | `github-01-repo-baru.jpg` | Tangkapan layar | [github.com/new](https://github.com/new), Oktober 2026 | © GitHub, Inc.; dipakai untuk tujuan pendidikan |
 | `github-02-repo-baru-bawah.jpg` | Tangkapan layar + anotasi penulis | Sama dengan di atas | © GitHub, Inc.; dipakai untuk tujuan pendidikan |
 | `github-03-menu-add-file.jpg` | Tangkapan layar + anotasi penulis | Halaman repositori GitHub | © GitHub, Inc.; dipakai untuk tujuan pendidikan |
